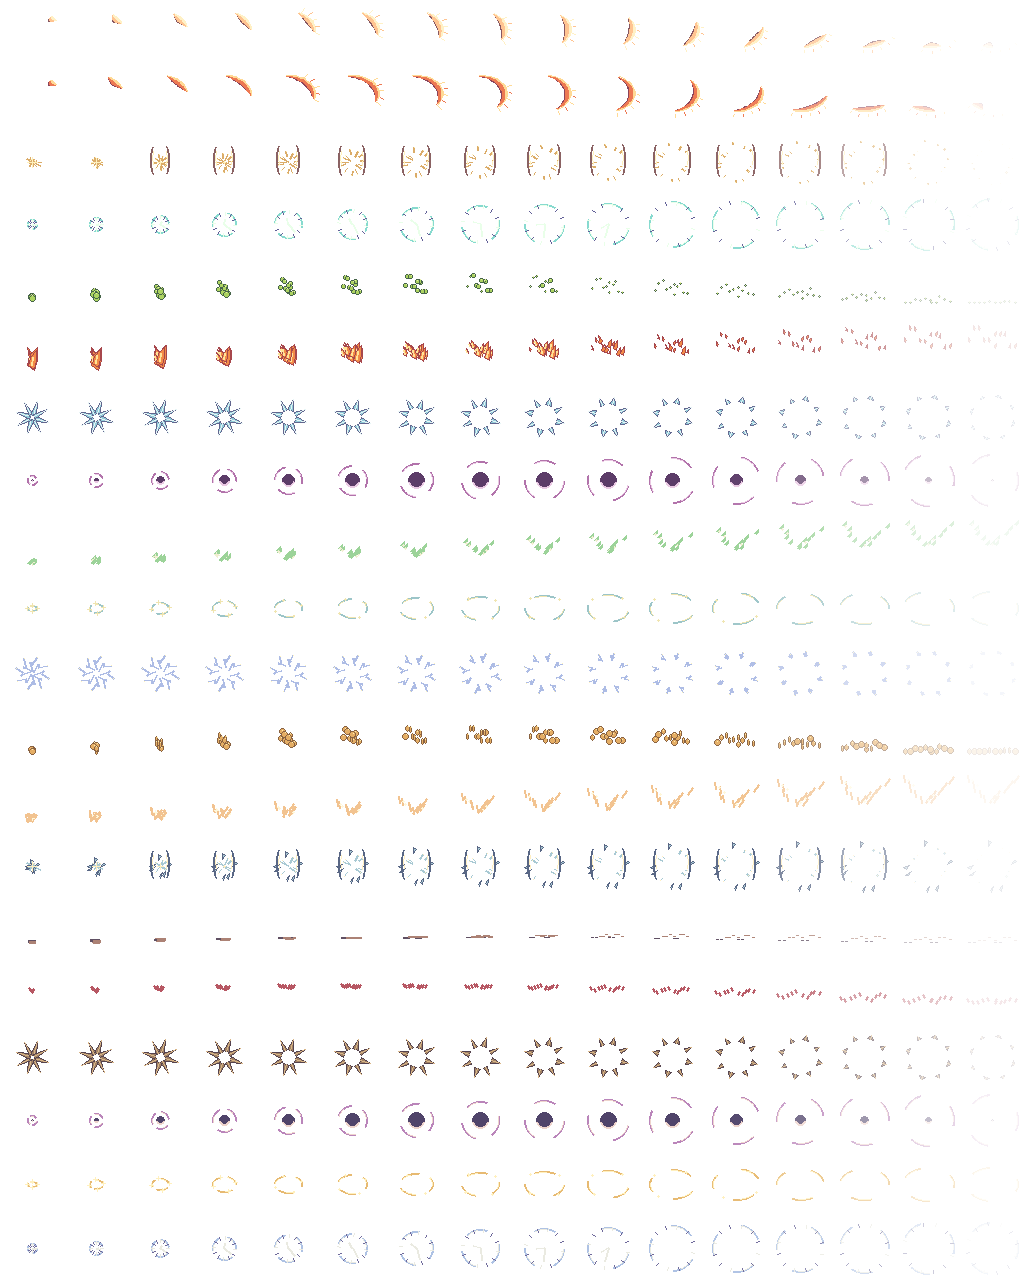
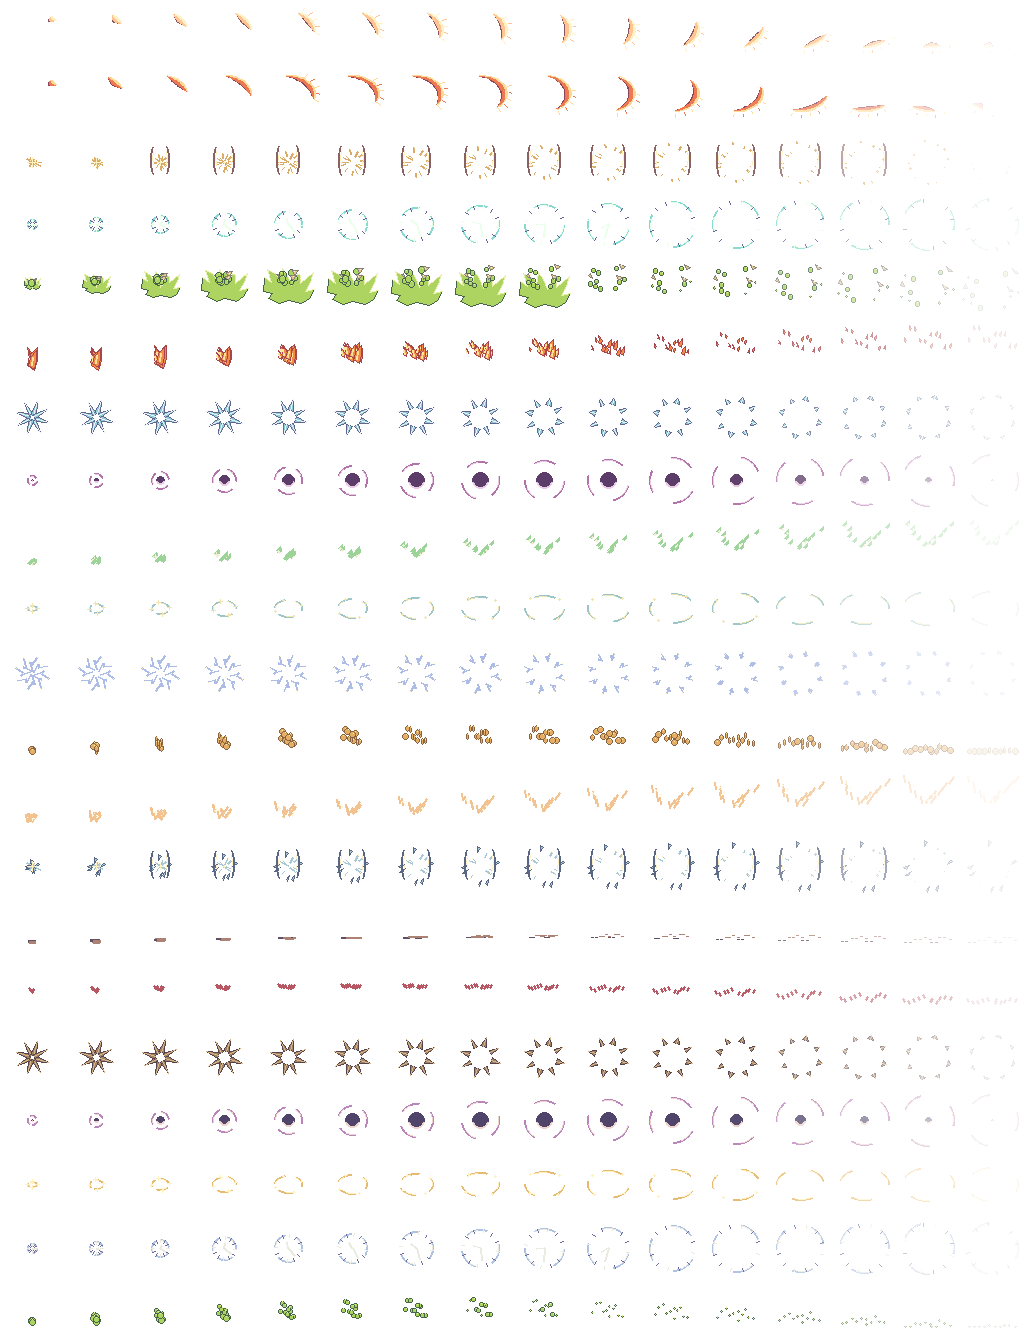
Keep melee footing legible and give thrown venom a physical shatter
Fade the empty home nameplate only during travel. Separate the crown of liquid and amber glass at first impact from later poison droplets, and light Ward Lantern in its own warm palette.

diff --git a/public/animation.js b/public/animation.js
@@ -46,6 +46,7 @@ const poses = [
 ];
 function pose(element, name) {
   delete element.dataset.track;
+  element.style.removeProperty('--clip-row');
   const index = poses.indexOf(name);
   element.dataset.pose = name;
   element.style.setProperty('--pose-x', ((index % 4) / 3) * 100 + '%');
@@ -152,6 +153,7 @@ const effectRows = [
   'eclipse',
   'ward',
   'echo',
+  'miasma',
 ];
 const missiles = ['arcane', 'venom', 'fire', 'frost', 'doom', 'shock'];
 export function actionVisual(actionId, classId, self = false) {
@@ -183,7 +185,7 @@ function effectFor(event, profile, primary) {
   if (event.type === 'elimination') return 'doom';
   if (event.type === 'revival') return 'revival';
   if (event.type === 'heal') return 'heal';
-  if (event.type === 'shield') return 'guard';
+  if (event.type === 'shield') return primary && profile.effect === 'ward' ? 'ward' : 'guard';
   return impactCauses[event.cause] ?? profile.effect;
 }
 export function impactScale(amount) {
@@ -353,8 +355,8 @@ export function playArenaAction(arena, recap, options = {}) {
     else if (!originals.has(element)) originals.set(element, element.dataset.pose);
     pose(element, name);
   }
-  function imprint(kind, x, y, size, duration, parent = scene) {
-    const el = part(parent, 'arena-fx-burst');
+  function imprint(kind, x, y, size, duration) {
+    const el = part(scene, 'arena-fx-burst');
     el.dataset.effect = kind;
     positioned(el, x - size / 2, y - size / 2, size, size);
     el.style.setProperty('--effect-row', (effectRows.indexOf(kind) / (effectRows.length - 1)) * 100 + '%');
@@ -365,7 +367,8 @@ export function playArenaAction(arena, recap, options = {}) {
   }
   function contactBurst(subject, kind, amount, full = true) {
     const box = bounds(subject);
-    const size = Math.max(34, Math.min(205, box.h * impactScale(amount) * (full ? 0.91 : 0.58)));
+    const emphasis = full ? (kind === 'venom' ? 1.19 : 0.91) : 0.58;
+    const size = Math.max(34, Math.min(205, box.h * impactScale(amount) * emphasis));
     return imprint(kind, centerX(box), centerY(box), size, still ? 245 : full ? 370 : 305);
   }
   function heldIcon(icon, fromMs, untilMs) {
@@ -460,7 +463,13 @@ export function playArenaAction(arena, recap, options = {}) {
     }
     tween(ghost, body, duration);
     if (melee) {
-      actor.seat.dataset.travelling = '';
+      const launch = score.path.find((point) => point[1] > 0);
+      at(launch[0], () => {
+        actor.seat.dataset.travelling = '';
+      });
+      at(duration - 90, () => {
+        delete actor.seat.dataset.travelling;
+      });
       const floor = part(scene, 'arena-fx-shadow');
       positioned(
         floor,

diff --git a/public/animation.css b/public/animation.css
@@ -98,7 +98,7 @@
 }
 .arena-fx-burst {
   background-image: url('/assets/skins/arena-effects.png');
-  background-size: 1600% 2000%;
+  background-size: 1600% 2100%;
   background-position: 0% var(--effect-row);
   animation: arena-effect-cels var(--effect-time, 330ms) steps(15, end) forwards;
 }
@@ -261,4 +261,10 @@ body.reduce-motion .arena-sprite[data-pose='idle'] {
   .arena-sprite[data-pose='idle'] {
     animation: none !important;
   }
+}
+.combatant .fighter-panel {
+  transition: opacity 100ms ease-out;
+}
+.combatant[data-travelling] .fighter-panel {
+  opacity: 0.1;
 }

diff --git a/tests/animation.test.js b/tests/animation.test.js
@@ -17,7 +17,7 @@ test('every founder sheet has twelve poses in each of three damage bands',async(
     assert.ok(html.includes('data-class="'+classId+'"'));
     assert.ok(html.includes(sheet));
   }
-  for(const [name,width,height] of [['arena-effects',1024,1280],['arena-projectiles',192,256]]) {
+  for(const [name,width,height] of [['arena-effects',1024,1344],['arena-projectiles',192,256]]) {
     const image=await readFile(new URL('../public/assets/skins/'+name+'.png',import.meta.url));
     assert.deepEqual([image.readUInt32BE(16),image.readUInt32BE(20)],[width,height]);
   }

diff --git a/public/combat-motion.js b/public/combat-motion.js
@@ -175,7 +175,7 @@ export const impactCauses = {
   burn: 'fire',
   'arena-fire': 'fire',
   bleed: 'bleed',
-  poison: 'venom',
+  poison: 'miasma',
   doom: 'doom',
   curse: 'doom',
   shock: 'shock',

diff --git a/scripts/build-arena-effects.py b/scripts/build-arena-effects.py
@@ -16,6 +16,7 @@ PALETTES = {
     'dust': ('#605063', '#ac8275', '#d4ac83'), 'bleed': ('#6a3353', '#b75763', '#e99a86'),
     'thorns': ('#55434e', '#a18265', '#d9b687'), 'eclipse': ('#50446a', '#ba85ba', '#eed4cc'),
     'ward': ('#7a6649', '#e7ba72', '#fff0be'), 'echo': ('#6f6a9b', '#aec2e4', '#eaeae1'),
+    'miasma': ('#466449', '#add361', '#e7efa8'),
 }
 MISSILES = ['arcane', 'venom', 'fire', 'frost', 'doom', 'shock']
 TAU = 2 * math.pi
@@ -111,7 +112,7 @@ def plume(draw, phase, colors, kind):
         t = min(1, max(0, (phase - (i%3)*.045)*1.14))
         side = (-1 if i%2 else 1)
         x=32 + side*(3 + (i%5)*5)*t
-        if kind=='venom':
+        if kind=='miasma':
             y=42 - math.sin(t*math.pi)*((i%4)*5+9) + t*4
             r=max(1,round((1-t)*3))
             draw.ellipse((x-r,y-r,x+r,y+r),fill=mid,outline=dark)
@@ -143,6 +144,36 @@ def plume(draw, phase, colors, kind):
             draw.line((x,y,x+side*2,y-3),fill=mid,width=2)
 
 
+def shattered_flask(draw, phase, colors):
+    dark,mid,light=colors
+    # The belly of the bottle breaks sideways at the chest. A raised sheet of
+    # liquid opens into droplets and three bright glass shards fall across it.
+    spread=min(1,phase/.30)
+    if phase < .53:
+        profile=[(-24,-10),(-17,-5),(-21,-18),(-13,-14),(-8,-6),(-6,-19),(-1,-12),
+                 (3,-2),(9,-14),(12,-12),(12,-4),(25,-15),(22,-5),(17,4),(26,2),
+                 (21,11),(13,16),(0,13),(-9,16),(-20,11),(-16,6),(-25,4)]
+        scale=.24+.75*math.sin(spread*math.pi/2)
+        base=27+phase*15
+        pts=[(round(32+x*scale),round(base+y*scale)) for x,y in profile]
+        draw.polygon(pts,fill=mid,outline=dark)
+        rim=[(round(32+x*scale),round(base+y*scale)) for x,y in profile[:15]]
+        draw.line(rim,fill=light,width=1)
+        if phase<.22: star(draw,32,round(base),round(5*(1-phase/.22)),light)
+    for i in range(13):
+        side=1 if i%2 else -1
+        x=32+side*(12+(i*7)%19)*phase
+        t=phase*1.06
+        y=28+38*t*t-(15+(i*11)%40)*t
+        size=max(1,round((3.4-(i%3)*.55)*(1-.58*phase)))
+        if i in (2,7,9):
+            draw.polygon([(x-2,y-2),(x+side*4,y-4+7*t),(x,y+3)],fill='#e3c68e',outline='#827f79')
+            draw.point((round(x),round(y-1)),fill='#fff1c6')
+        else:
+            draw.ellipse((x-size,y-size*1.25,x+size,y+size),fill=mid,outline=dark)
+            draw.point((round(x),round(y-size)),fill=light)
+
+
 def splinters(draw,phase,colors,kind):
     dark,mid,light=colors
     for i in range(8):
@@ -167,6 +198,7 @@ def impact(kind, frame, colors):
     draw=ImageDraw.Draw(image)
     phase=(frame+.35)/CELLS
     if kind in ('slash','cleave'): blade(draw,phase,colors,kind=='cleave')
+    elif kind=='venom': shattered_flask(draw,phase,colors)
     elif kind in ('bastion','fracture'): strike(draw,phase,colors,kind=='fracture')
     elif kind in ('arcane','guard','ward','doom','eclipse','echo'): dial(draw,phase,colors,kind)
     elif kind in ('shock','frost','thorns'): splinters(draw,phase,colors,kind)
